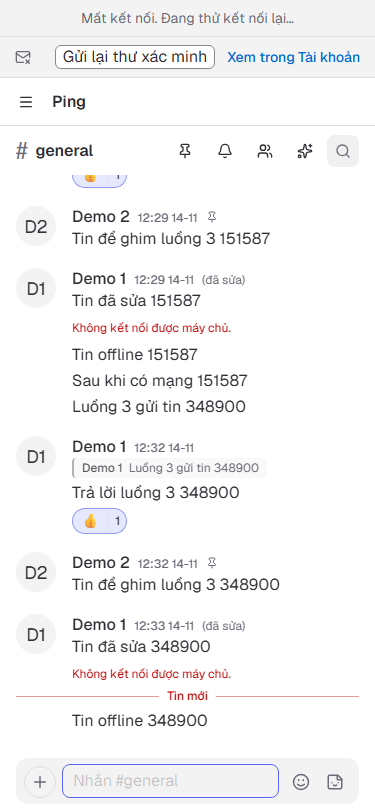
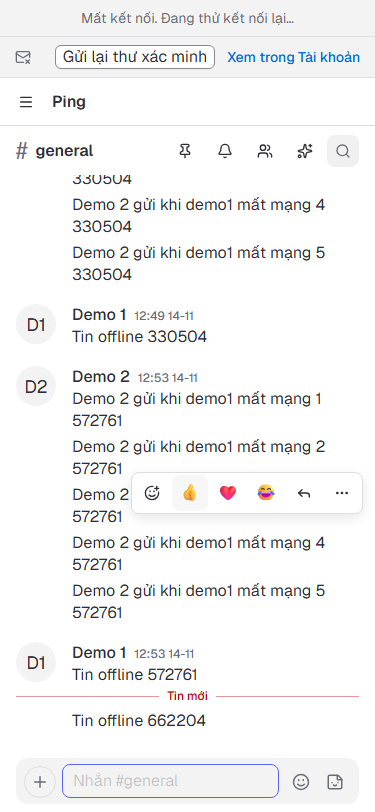
docs: flow 8 chạy lại theo kịch bản chặt (offline 45s, 5 tin demo2)
Ghi đủ 6/6 tin không trùng đúng thứ tự, chốt luồng 1 không có mailer nên F7 giữ một phần.

diff --git a/docs/v0.2.0/evidence/V2-final/flows-prod.md b/docs/v0.2.0/evidence/V2-final/flows-prod.md
@@ -6,7 +6,8 @@ Tài khoản: `demo1`, `demo2` (thành viên) và owner `owner-demo` — mật k
 không in ra. Hai phiên trình duyệt riêng cho `demo1`/`demo2`; phiên owner chỉ dùng để kick, ghim
 và tạo phiên thứ hai. Dữ liệu server: [demo-data.md](../../../runbook/demo-data.md).
 
-Thời điểm chạy cuối: 1280 lúc 05:30 UTC, 375 lúc 05:35 UTC. Ảnh ở [`screens/`](screens/).
+Thời điểm chạy cuối: 1280 lúc 05:30 UTC, 375 lúc 05:35 UTC; luồng 8 chạy lại theo kịch bản
+chặt (offline 45 giây + 5 tin từ `demo2`) lúc 05:56 UTC. Ảnh ở [`screens/`](screens/).
 
 ## Kết quả
 
@@ -19,13 +20,14 @@ Thời điểm chạy cuối: 1280 lúc 05:30 UTC, 375 lúc 05:35 UTC. Ảnh ở
 | 5   | Chưa đọc / nhắc tên / hai tab              | **Đạt** | **Đạt** | `(1) Ping` ở cả hai tab, badge nhắc tên, vạch "Tin mới", đọc xong về 0. |
 | 6   | Tìm kiếm và nhảy tới tin                   | **Đạt** | **Đạt** | Lọc `# general`; bấm kết quả tới permalink, tin đích được tô sáng.      |
 | 7   | Hỏi AI                                     | **Lỗi** | **Lỗi** | Production thiếu `GROQ_API_KEY` — xem mục lỗi bên dưới.                 |
-| 8   | Mất mạng 40 giây rồi gửi tiếp              | **Đạt** | **Đạt** | "Mất kết nối" → "Gửi thất bại" → có mạng lại, tin gửi đúng 1 lần.       |
+| 8   | Mất mạng 45 giây, 5 tin từ demo2           | **Đạt** | **Đạt** | Đủ 6/6 tin, không trùng, đúng thứ tự; không cần tải lại trang.          |
 | 9   | DM và cài đặt cá nhân                      | **Đạt** | **Đạt** | Chặn/bỏ chặn, đổi tên, sáng/tối, en/vi, thu hồi phiên khác.             |
 
 ## Chi tiết từng luồng
 
 1. **Đăng nhập** — chỉ `demo1` ở cả hai viewport. Vào kênh đích, thấy banner "Email chưa xác minh";
-   luồng xác minh email **không áp dụng** trên môi trường này (không có SMTP).
+   luồng xác minh email **không áp dụng** trên môi trường này — production không có mailer, nên
+   **F7 giữ `một phần`** (đã chạy qua Mailpit local ở TG.8, chưa gửi thư qua nhà cung cấp thật).
    Ảnh: [1280](screens/flows-1280-01-login.png), [375](screens/flows-375-01-login.png).
 2. **Tham gia bằng mã mời** — owner kick `demo1` qua API (dùng member id). `demo1` tải lại: không
    còn server trong rail, trang chủ hiện nút "Nhập mã mời". Nhập mã mời của server, vào lại thấy
@@ -58,12 +60,18 @@ Thời điểm chạy cuối: 1280 lúc 05:30 UTC, 375 lúc 05:35 UTC. Ảnh ở
    `AI_UNAVAILABLE`, UI báo "AI hiện không sẵn sàng. Vui lòng thử lại sau." nên không có câu trả lời
    lẫn chip trích dẫn để kiểm. **Không đạt vì cấu hình**, không phải lỗi UI.
    Ảnh: [1280](screens/flows-1280-07-unavailable.png), [375](screens/flows-375-07-unavailable.png).
-8. **Mất mạng rồi gửi tiếp** — ngắt mạng 40 giây, gửi tin → "Gửi thất bại" và banner "Mất kết nối";
-   có mạng lại, bấm "Thử lại" khi nút xuất hiện; tin xuất hiện đúng **một lần**, đứng trước tin gửi
-   sau khi có mạng.
+8. **Mất mạng rồi gửi tiếp** — tab `demo1` đặt offline **45 giây**, gõ "Tin offline …" rồi Enter
+   (ô nhận chữ, chưa gửi được) và banner "Mất kết nối" hiện. Trong lúc mất mạng, `demo2` gửi **5
+   tin** cách nhau 3 giây qua API công khai. Bật mạng lại, chờ banner biến mất rồi thêm 15 giây,
+   cuộn xuống đáy: cả **6 tin** hiện đúng **một lần**, không cần tải lại trang. Kiểm ngược bằng
+   `GET /messages?limit=100`: server có đúng 6 tin, thứ tự cũ→mới là 5 tin của `demo2` rồi tin
+   offline (flush lúc reconnect).
    Ảnh: [1280 mất mạng](screens/flows-1280-08-offline.png),
    [1280 sau](screens/flows-1280-08-after.png), [375 mất mạng](screens/flows-375-08-offline.png),
    [375 sau](screens/flows-375-08-after.png).
+   **Quan sát thêm (P2):** ngay sau reconnect, nếu người dùng chưa cuộn xuống đáy thì tin mới có
+   thể nằm ngoài cửa sổ ảo hóa (không render dù đã có trong cache) — dữ liệu vẫn đủ, đúng thứ tự.
+   Đã ghi ở `docs/known-issues.md` (ghi chú cục bộ, không commit).
 9. **DM và cài đặt cá nhân** — mở danh sách thành viên, bấm `Demo 2` → hồ sơ → "Nhắn tin", gửi DM;
    chặn (banner chặn hiện) rồi bỏ chặn; đổi tên hiển thị sang "Demo 1 Pilot" rồi trả lại "Demo 1";
    giao diện tối rồi về hệ thống; ngôn ngữ en rồi về vi; trang `/settings` có phiên hiện tại + phiên
